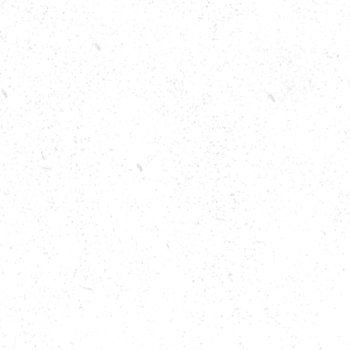
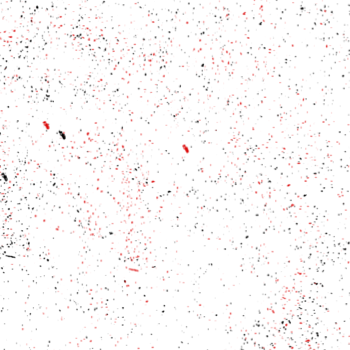
negra

diff --git a/index.html b/index.html
@@ -43,7 +43,7 @@
           el camino,<br/>
           Nuestros bebés caminan descalzos por las ciudades del universo.
         </p>
-        <h5>escrito por Diane di Prima</h5>
+        <h5>∼ escrito por Diane di Prima</h5>
       </article>
       <article>
         <h1>Revolutionary Letter #4</h1>
@@ -66,7 +66,7 @@
           the way,<br/>
           our babes toddle barefoot thru the cities of the universe.
         </p>
-        <h5>written by Diane di Prima</h5>
+        <h5>∼ written by Diane di Prima</h5>
       </article>
     </section>
     <aside></aside>

diff --git a/style.css b/style.css
@@ -6,7 +6,8 @@
 }
 
 body {
-	background-color: #023020;
+	/*	background-color: #023020;*/
+	background-color: #000;
 	color: #ffffff;
 	display: block;
 	font-family: "chandler-42-regular", sans-serif;
@@ -28,7 +29,6 @@ section, footer{
 
 h1{
 	font-size: 22px;
-	overflow: hidden;
 }
 
 P{
@@ -79,15 +79,11 @@ aside:after {
   content: "";
   height: 300%;
   left: -50%;
-  opacity: 0.35;
+  opacity: 0.25;
   position: fixed;
   top: -110%;
   width: 300%;
   z-index: 0;
-}
-
-footer {
-	color: black;
 }
 
 @keyframes grain {
